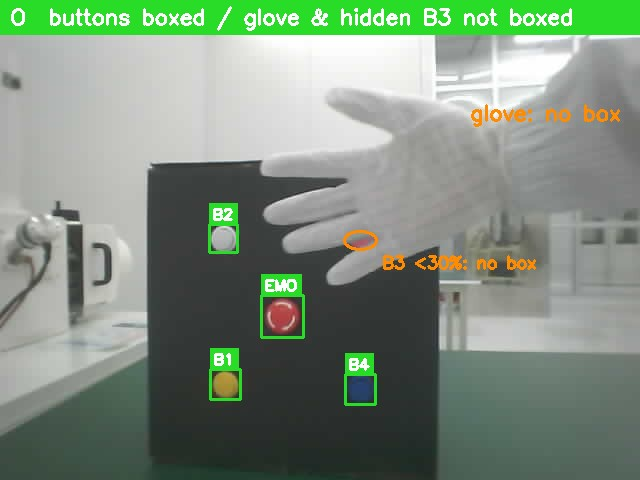
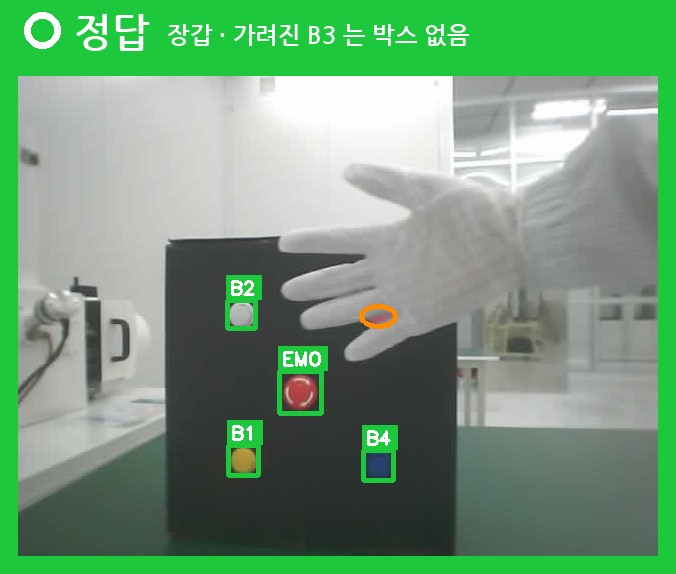
docs(labeling): 정답·틀림 사진 구분 강화 — 색 테두리·한글 표시·틀림 X 표시 · 정답/틀림 사진 분리
Claude-Session: https://claude.ai/code/session_01SQeJp6mk5161TujvurhcKe

diff --git a/Demo/docs/labeling_guide.md b/Demo/docs/labeling_guide.md
@@ -1,6 +1,7 @@
 # 라벨링 규칙 — 버튼·공구
 
 > 2026-09-15 · Roboflow **사각형 박스만** 사용 · 배포용 = 같은 내용의 PDF · 이전 판은 git 이력
+> **사진 보는 법** — 초록 테두리 = 정답 · 빨간 테두리 + X = 틀림 · 주황 테두리 = 그리지 않는 게 정답
 
 ## 그릴 것 — 8종류
 
@@ -12,8 +13,9 @@
 | **B4** | 검정 + 파란 동그라미 스티커 | 오른쪽 아래 | | | |
 | **EMO** | 빨간 비상정지, **흰 테두리 무늬** | 맨 아래 가운데 | | | |
 
-![버튼](labeling_guide_img/01_buttons_classes.jpg)
-![공구](labeling_guide_img/05_tools_classes.jpg)
+<img src="labeling_guide_img/01_buttons.jpg" width="45%">
+
+<img src="labeling_guide_img/05_driver.jpg" width="32%"> <img src="labeling_guide_img/05_wrench.jpg" width="32%"> <img src="labeling_guide_img/05_pliers.jpg" width="32%">
 
 이 8가지 말고는 그리지 않는다(다른 공구·손·장갑 포함).
 
@@ -22,16 +24,20 @@
 **① 반듯한 사각형으로, 물체에 딱 맞게. 물체 하나에 박스 하나.**
 
 **② 버튼이 손가락에 조금 가려져도 → 버튼 동그라미 전체를 그린다.**
-![손가락 가림](labeling_guide_img/02_button_occluded.jpg)
+
+<img src="labeling_guide_img/02_ok.jpg" width="48%"> <img src="labeling_guide_img/02_ng.jpg" width="48%">
 
 **③ 거의 안 보이거나(⅓ 이하) 무엇인지 확신이 없으면 → 그리지 않는다.** 추측해서 그리지 않는다.
-![거의 가림](labeling_guide_img/03_button_hidden_skip.jpg)
+
+<img src="labeling_guide_img/03_ok.jpg" width="48%"> <img src="labeling_guide_img/03_ng.jpg" width="48%">
 
 **④ 공구를 쥐어 두 조각으로 보여도 → 박스 하나로 두 조각을 모두 감싼다.** 가려진 끝은 늘려 그리지 않는다.
-![갈라진 렌치](labeling_guide_img/04_tool_split.jpg)
+
+<img src="labeling_guide_img/04_ok.jpg" width="48%"> <img src="labeling_guide_img/04_ng.jpg" width="48%">
 
 **⑤ 손·장갑 자체에는 박스를 치지 않는다.** 손에 가려진 버튼·공구는 ②~④대로 그린다.
-![장갑](labeling_guide_img/06_glove.jpg)
+
+<img src="labeling_guide_img/06_glove.jpg" width="48%">
 
 ## 헷갈리는 것 두 가지
 
